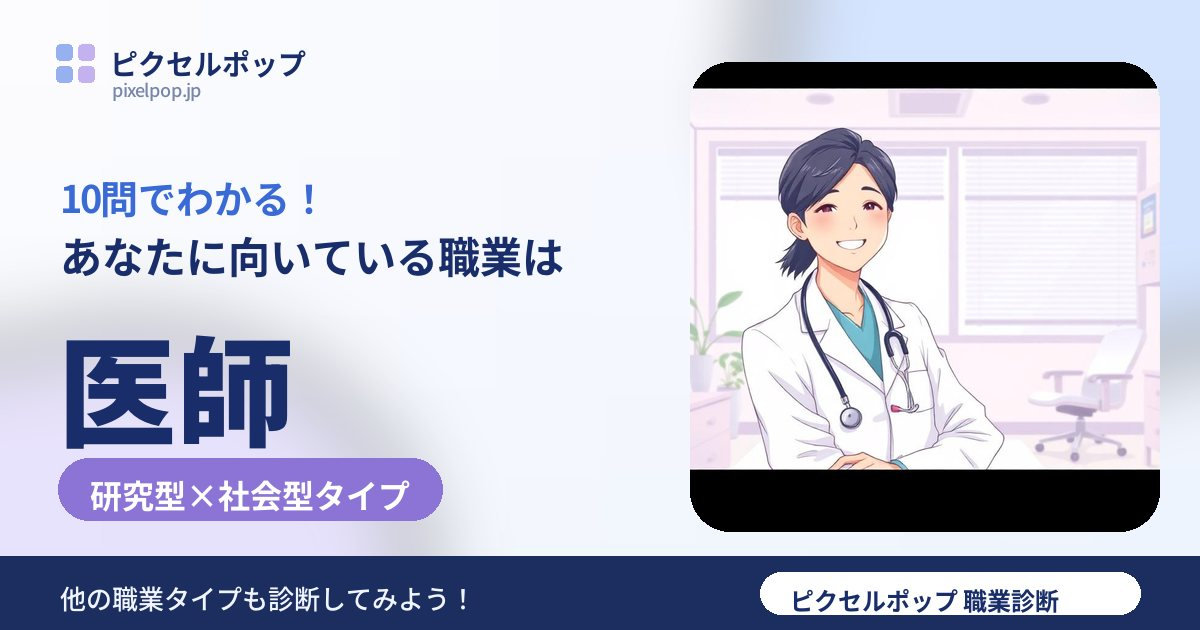
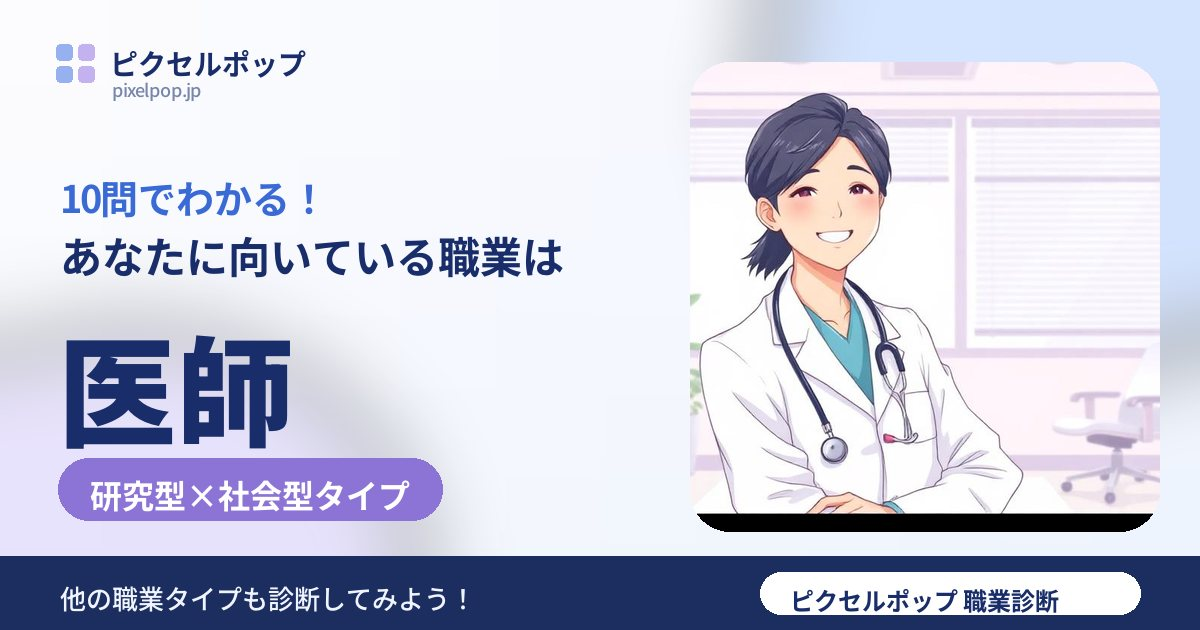
Changes

Changed region(s): [[0.555, 0.0905, 0.9867, 0.8143]]

diff --git a/scripts/gen-og-tekishoku.py b/scripts/gen-og-tekishoku.py
@@ -72,7 +72,28 @@ def photo(slug):
     return Image.open(path).convert("RGB")
 
 
+def trim_black(img):
+    """AI生成画像に入っている黒帯を取り除く。"""
+    g = img.convert("L")
+    W0, H0 = g.size
+    def row_dark(y):
+        return sum(g.getpixel((x, y)) for x in range(0, W0, 16)) / (W0 / 16) < 18
+    def col_dark(x):
+        return sum(g.getpixel((x, y)) for y in range(0, H0, 16)) / (H0 / 16) < 18
+    top, bottom, left, right = 0, H0 - 1, 0, W0 - 1
+    while top < bottom and row_dark(top):
+        top += 1
+    while bottom > top and row_dark(bottom):
+        bottom -= 1
+    while left < right and col_dark(left):
+        left += 1
+    while right > left and col_dark(right):
+        right -= 1
+    return img.crop((left, top, right + 1, bottom + 1))
+
+
 def cover(img, w, h):
+    img = trim_black(img)
     r = max(w / img.width, h / img.height)
     im = img.resize((max(1, int(img.width * r)), max(1, int(img.height * r))), Image.LANCZOS)
     left = (im.width - w) // 2
